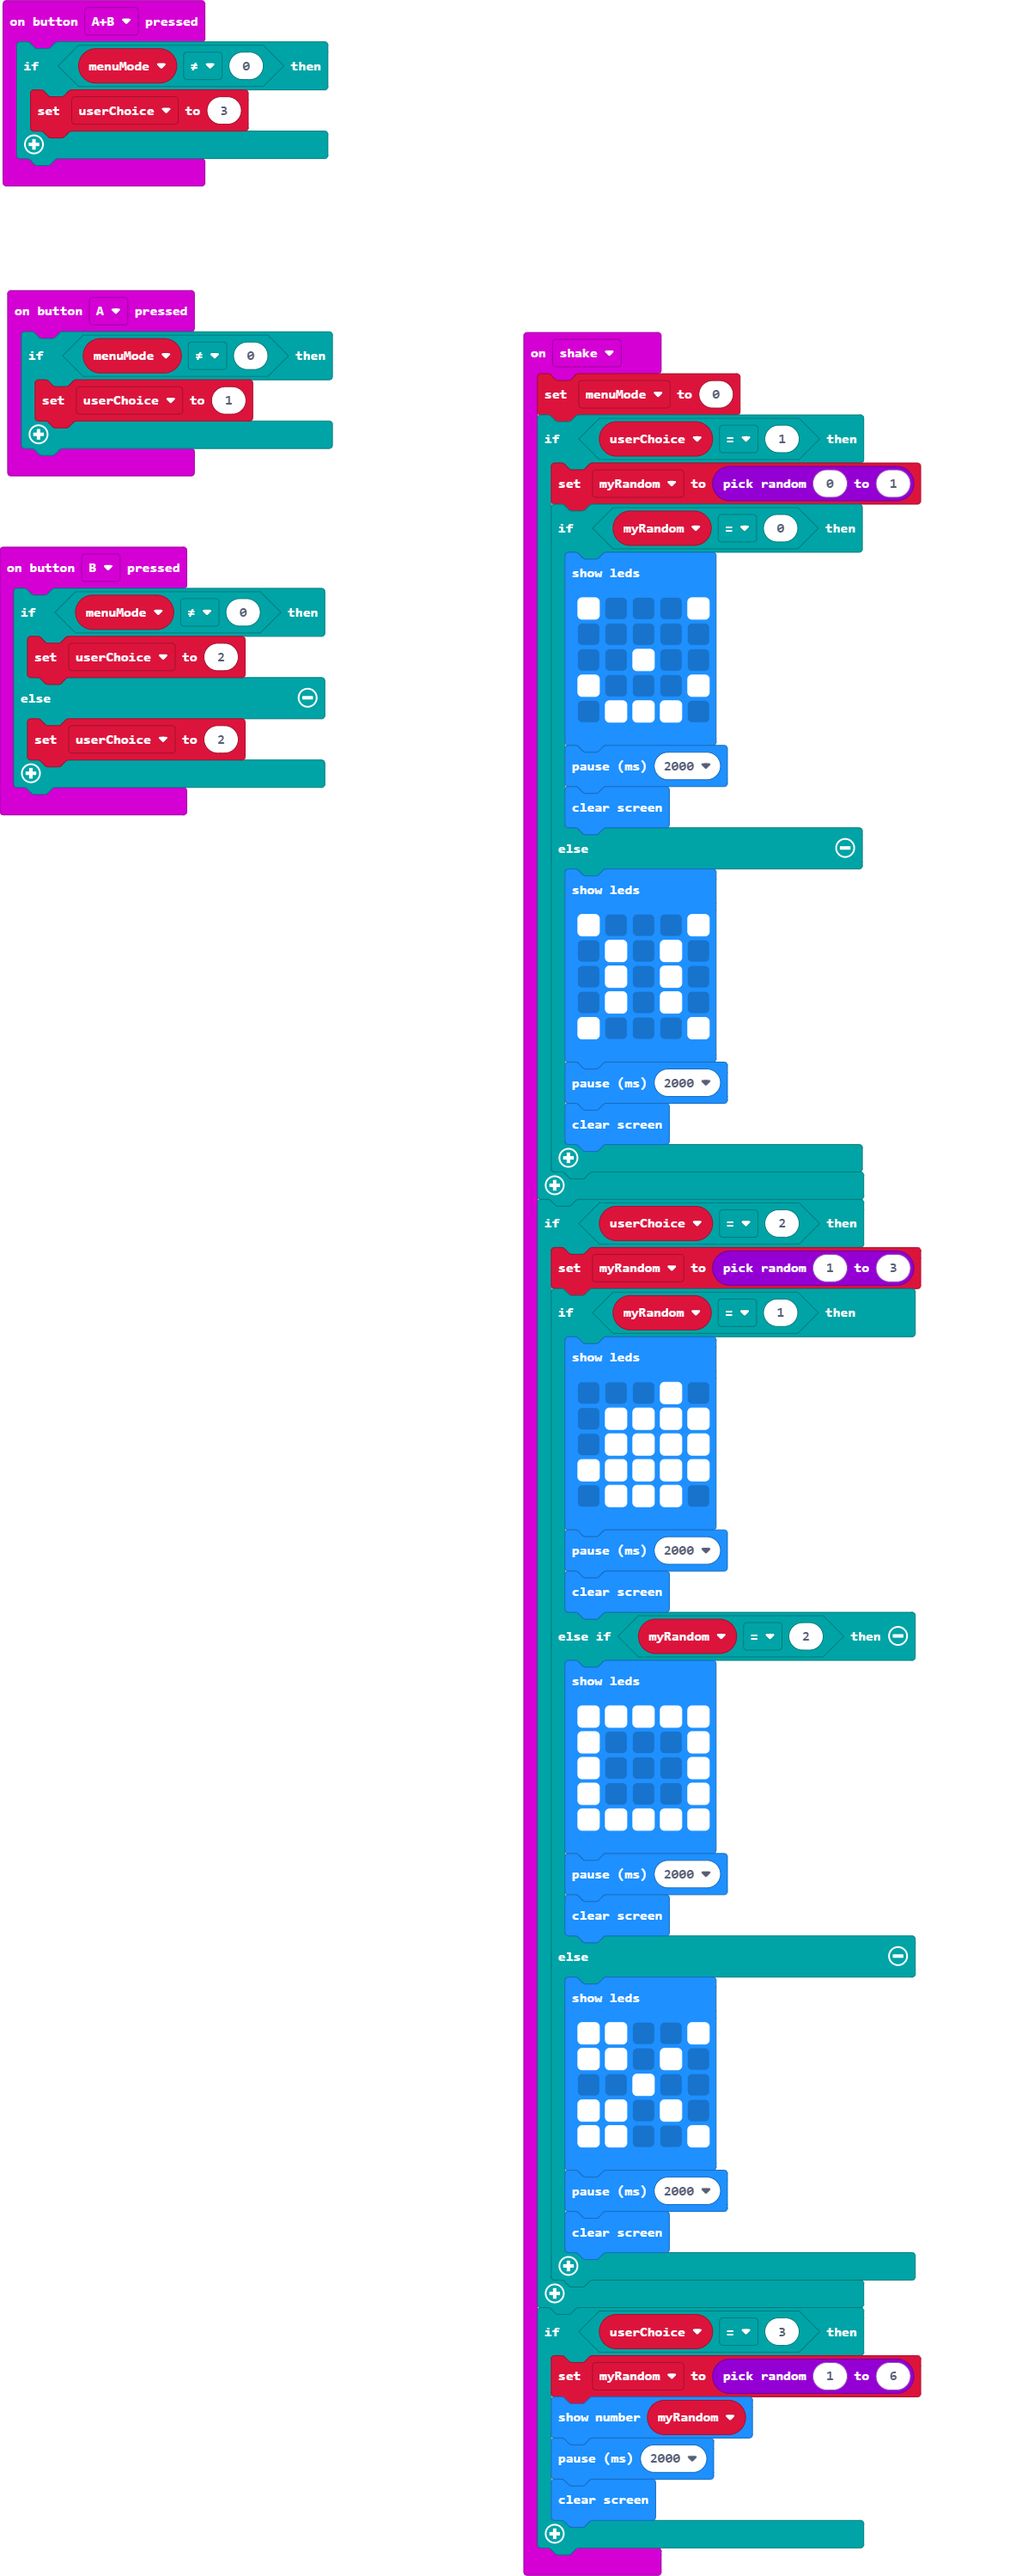
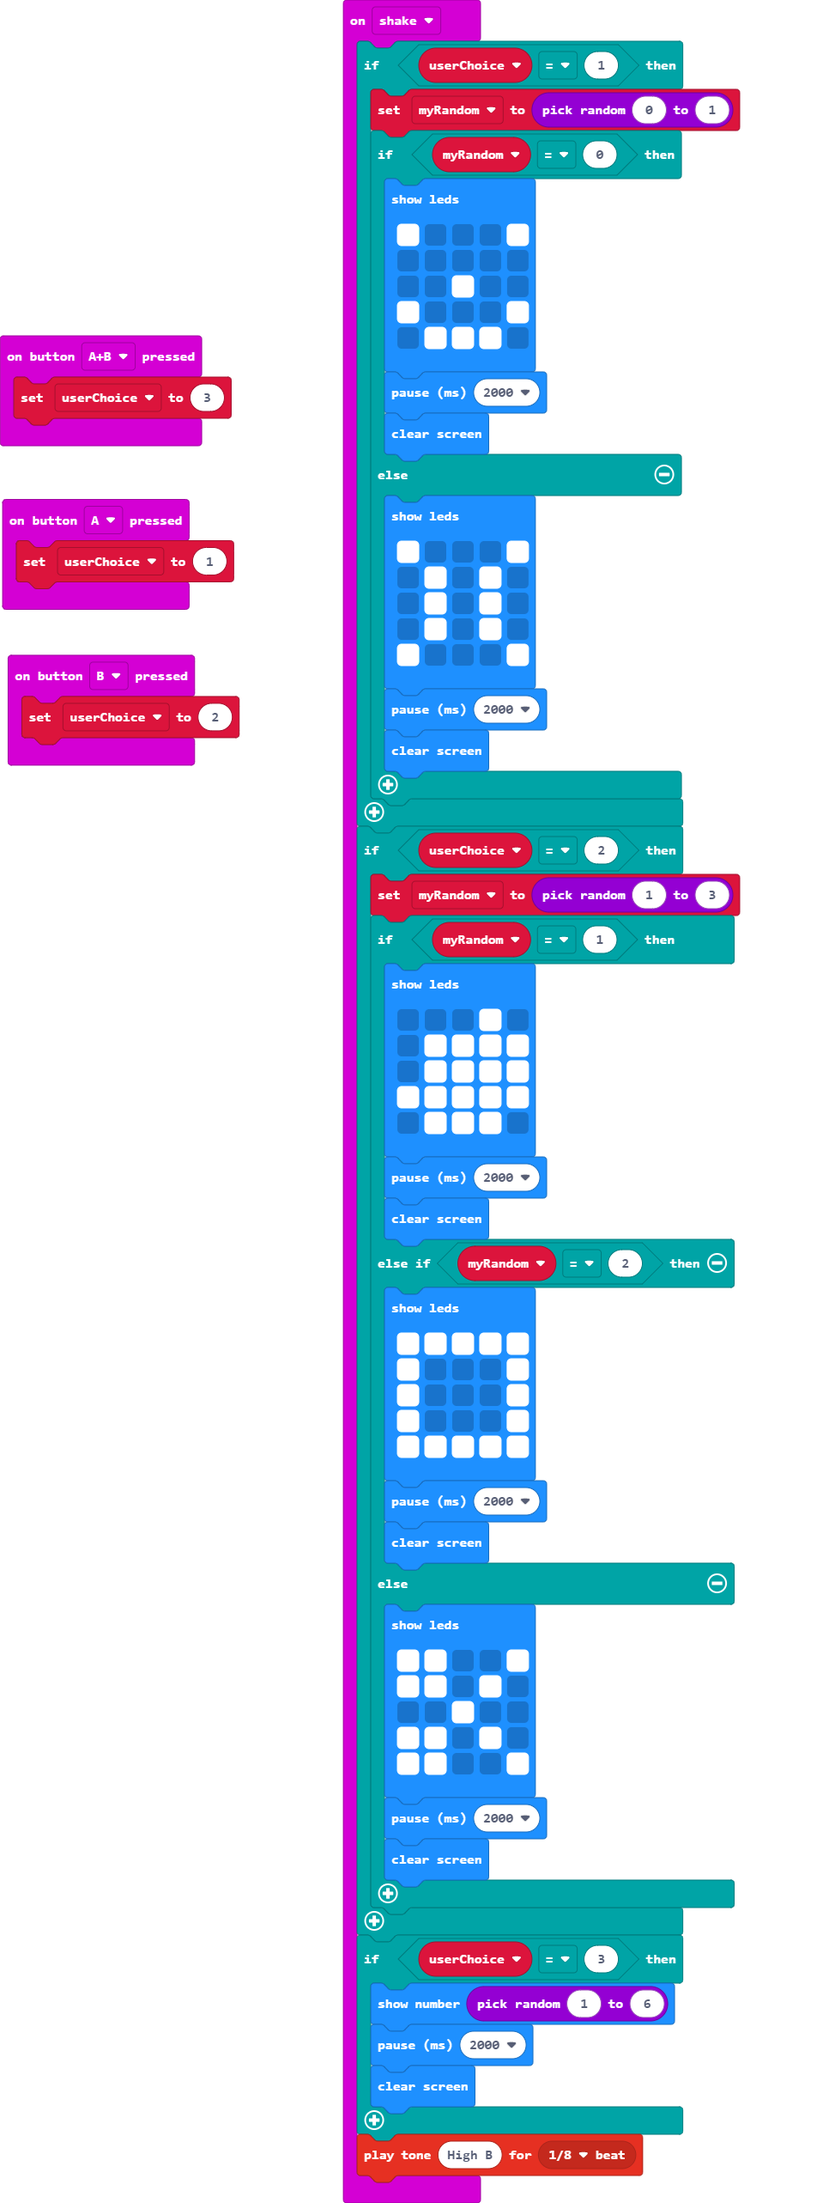
Update main.blocks, main.ts

diff --git a/main.ts b/main.ts
@@ -1,25 +1,15 @@
-let menuMode = 0
 let userChoice = 0
 let myRandom = 0
 input.onButtonPressed(Button.A, function () {
-    if (menuMode != 0) {
-        userChoice = 1
-    }
+    userChoice = 1
 })
 input.onButtonPressed(Button.AB, function () {
-    if (menuMode != 0) {
-        userChoice = 3
-    }
+    userChoice = 3
 })
 input.onButtonPressed(Button.B, function () {
-    if (menuMode != 0) {
-        userChoice = 2
-    } else {
-        userChoice = 2
-    }
+    userChoice = 2
 })
 input.onGesture(Gesture.Shake, function () {
-    menuMode = 0
     if (userChoice == 1) {
         myRandom = randint(0, 1)
         if (myRandom == 0) {
@@ -79,9 +69,9 @@ input.onGesture(Gesture.Shake, function () {
         }
     }
     if (userChoice == 3) {
-        myRandom = randint(1, 6)
-        basic.showNumber(myRandom)
+        basic.showNumber(randint(1, 6))
         basic.pause(2000)
         basic.clearScreen()
     }
+    music.playTone(988, music.beat(BeatFraction.Eighth))
 })
